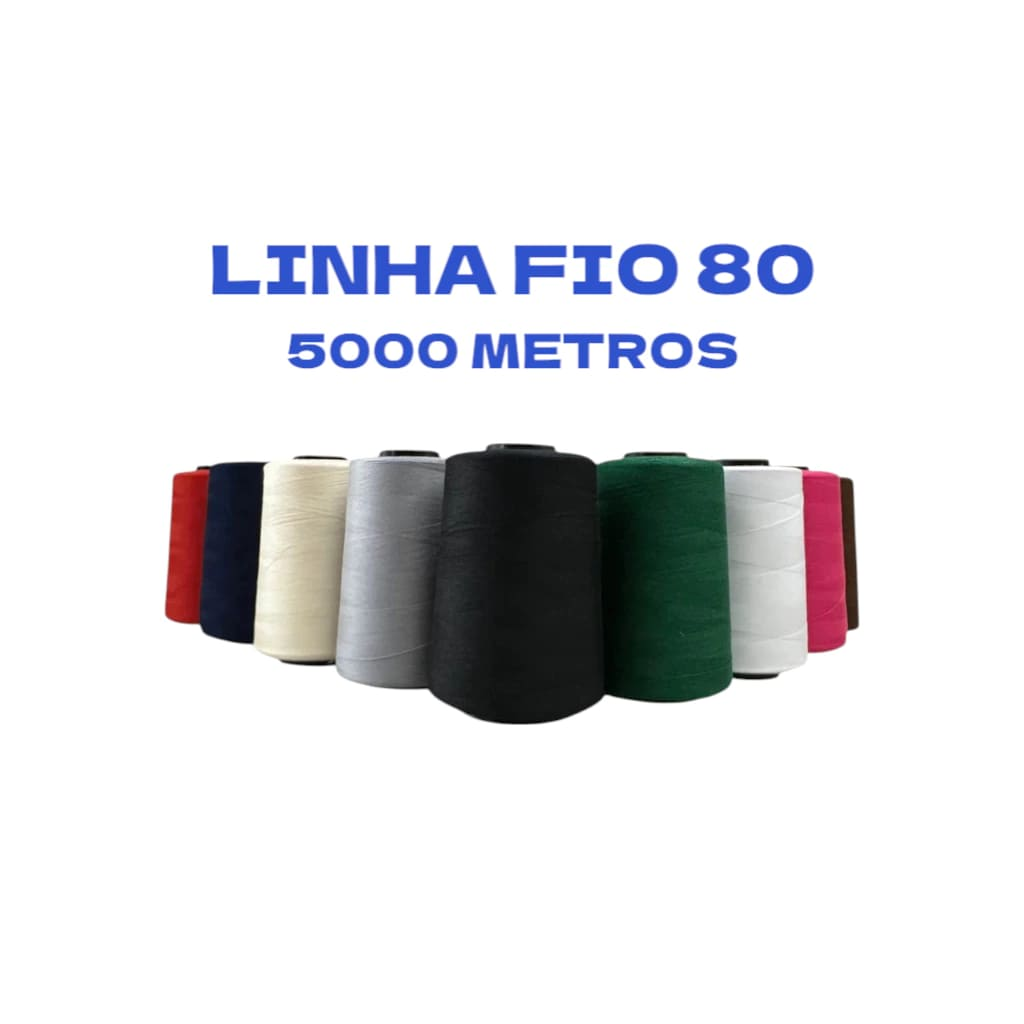
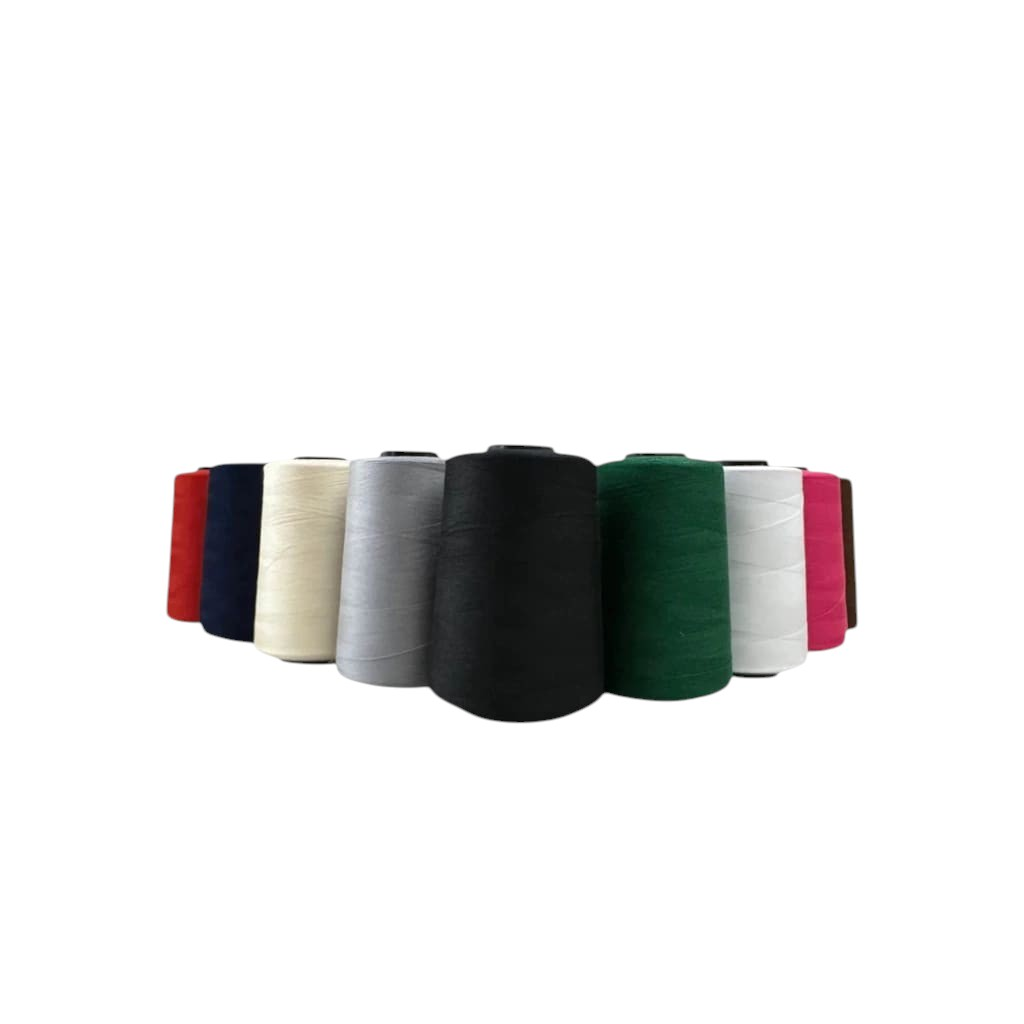
update: linha fio 80

diff --git a/index.html b/index.html
@@ -27,7 +27,7 @@
     <main id="inicio">
       <section class="hero">
         <div class="hero-content">
-          <p class="eyebrow">Catálogo visual</p>
+          <p class="eyebrow">Catálogo Virtual</p>
           <h1>Francos Tecidos</h1>
           <p>
             Catálogo de tecidos, materiais e aviamentos selecionados para
@@ -163,11 +163,12 @@
               alt="Linhas 80"
             />
             <div class="product-info">
-              <h3>LINHAS 80</h3>
+              <h3>LINHAS FIO 80</h3>
               <p>
-                Linhas para costura, acabamento e manutenção, com variedade para
-                diferentes combinações de tecido.
-              </p><br>
+                Linhas para costura, acabamento e manutenção, com variedade de
+                cores para diferentes combinações de tecido.
+              </p>
+              <br />
               <a class="btn primary" href="#detalhe-f">Detalhes</a>
             </div>
           </article>
@@ -518,12 +519,14 @@
         />
         <h2 id="titulo-e">Linhão de Estofaria</h2>
         <p>
-          🪡Qualidade e Economia para Seus Projetos!<br/>  ✂️Metragens variadas entre
-          0,90 cm a 1 m de comprimento <br/><br/>📦 Kit de linhão resistente,
-          ideal para: <br/>✔️ Base de tapete<br/>✔️ Estofados <br/>✔️ Tapetes artesanais<br/> ✔️ Costuras reforçadas
-          <br/>✔️ Artesanato em geral <br/><br/>💪 Alta durabilidade e ótimo rendimento! <br/>🎯
-          Perfeito para quem busca qualidade com preço justo! <br/>📌 Cores sortidas,
-          conforme disponibilidade em estoque.
+          🪡Qualidade e Economia para Seus Projetos!<br />
+          ✂️Metragens variadas entre 0,90 cm a 1 m de comprimento <br /><br />📦
+          Kit de linhão resistente, ideal para: <br />✔️ Base de tapete<br />✔️
+          Estofados <br />✔️ Tapetes artesanais<br />
+          ✔️ Costuras reforçadas <br />✔️ Artesanato em geral <br /><br />💪
+          Alta durabilidade e ótimo rendimento! <br />🎯 Perfeito para quem
+          busca qualidade com preço justo! <br />📌 Cores sortidas, conforme
+          disponibilidade em estoque.
         </p>
         <div class="image-gallery">
           <img
@@ -591,11 +594,20 @@
           src="images/products/f_linhas_80/linhas80_capa.jpg"
           alt="Capa linhas 80"
         />
-        <h2 id="titulo-f">Linhas 80</h2>
+        <h2 id="titulo-f">Linhas Fio 80</h2>
         <p>
-          Linhas 80 para costura, acabamento, manutenção e combinação com
-          diferentes tecidos e projetos. Valores e disponibilidade somente por
-          atendimento.
+          Qualidade, Resistência e Acabamento Profissional!<br><br>
+          ✨🧵 A Linha Fio 80 é perfeita para quem busca qualidade, resistência
+          e um excelente acabamento em costuras e trabalhos manuais. <br>
+          <br>📋 Características: <br>✔️ Tipo: Linha Fio 80 <br>✔️ Material:
+          100% Poliéster <br>✔️ Comprimento: 5.000 metros <br>✔️ Alta resistência e
+          durabilidade <br>✔️ Não arrebenta facilmente <br>✔️ Disponível em diversas
+          cores 🎨 <br>✔️ Ideal para costuras delicadas e resistentes <br><br>🎯 Indicações
+          de uso: <br>🪡 Costureiras <br>🧶 Artesãos <br>👕 Confecção de roupas <br>🩹 Reparos e
+          ajustes <br>🌸 Bordados <br>✨ E muito mais! <br><br>📌 Observações:⚠️ As cores podem
+          sofrer pequenas variações de acordo com a configuração da tela do seu
+          dispositivo. <br>💙 Garanta já a sua Linha Fio 80 e leve mais qualidade,
+          resistência e praticidade para seus projetos!
         </p>
         <div class="image-gallery">
           <img
@@ -661,7 +673,7 @@
           >
           <a
             class="btn btn-shopee"
-            href="https://shopee.com.br/"
+            href="https://shopee.com.br/Linha-fio-80-cone-5000-metros-Costura-Bordado-e-Artesanato-i.1225425014.21598269198"
             target="_blank"
             rel="noopener"
             >Shopee</a

diff --git a/css/style.css b/css/style.css
@@ -50,7 +50,6 @@ a {
   gap: 18px;
   padding: 14px clamp(16px, 4vw, 48px);
   background: linear-gradient(rgba(231, 5, 5, 0.332), rgb(0, 0, 0));
-  border-bottom: 1px solid var(--line);
   backdrop-filter: blur(14px);
 }
 